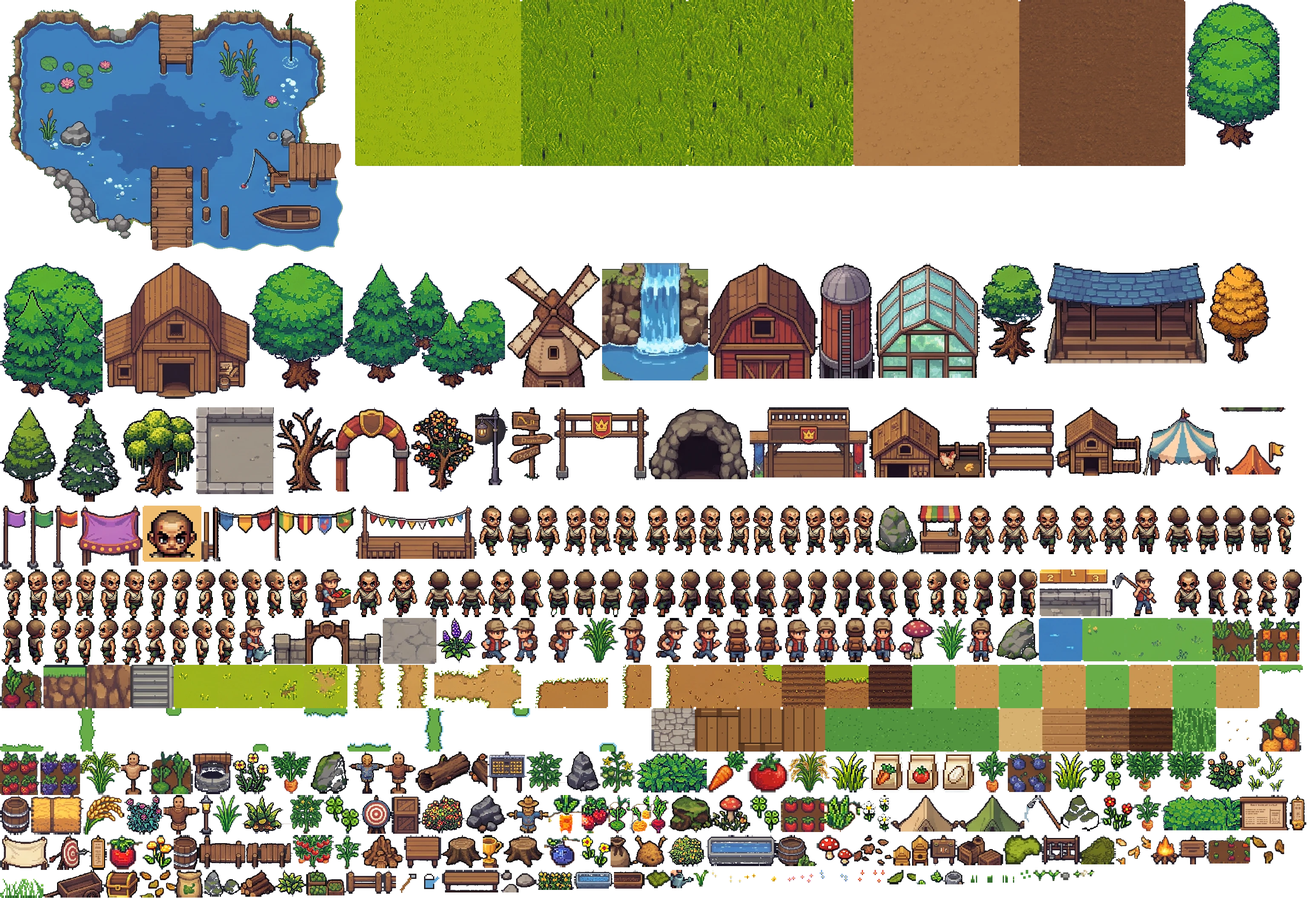
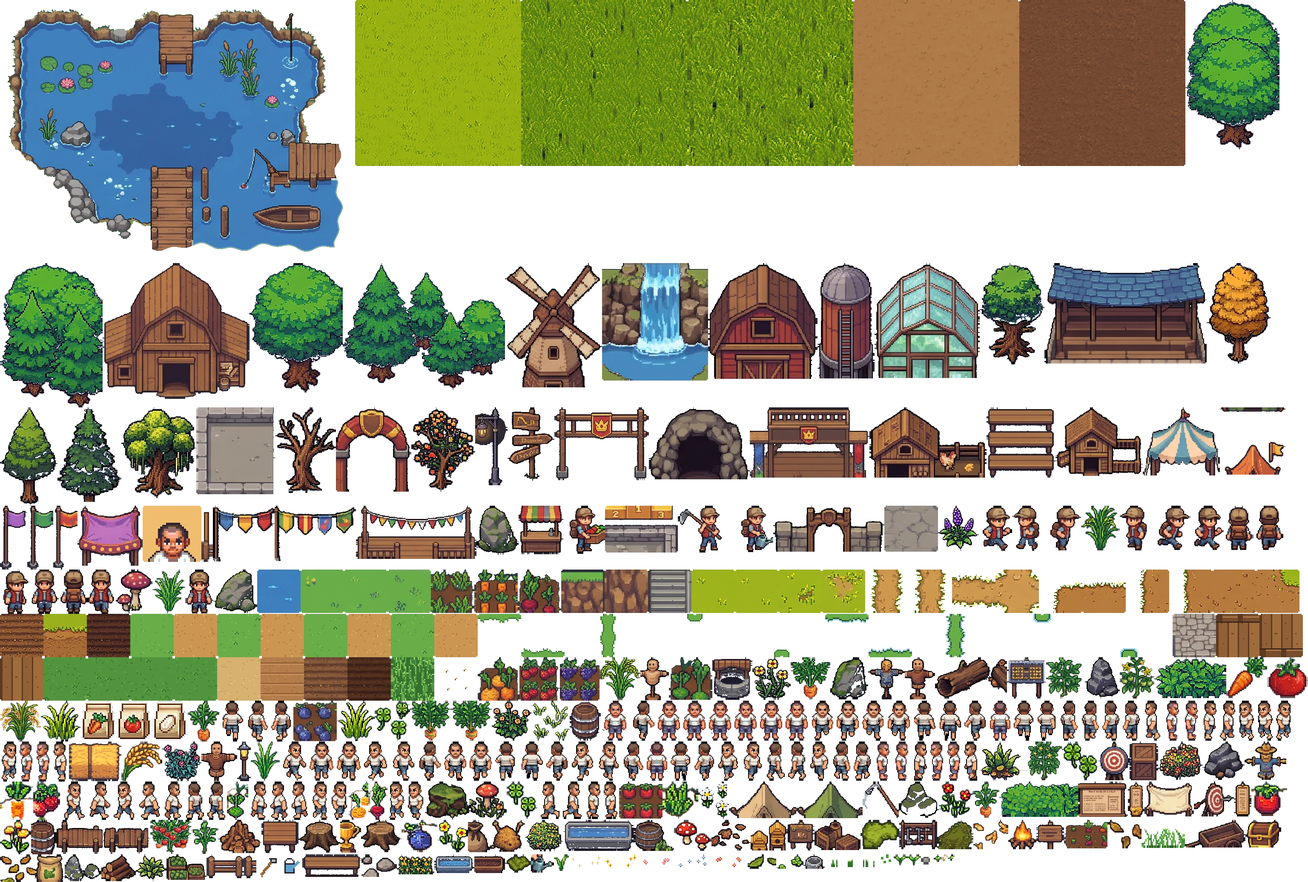
Thay nhân vật chính: bộ GIF đầy đủ (đứng thở + đi bộ 8 hướng)
- assets/source/char2/: idle_<d>.gif (thở: xuống 7 khung, lên 2, trái/phải 4)
  và walk_<d>.gif (8 hướng, 8 khung); hướng nhận tự động theo phía mặt
- Cắt thành pl4_<d>_i<n> / pl4_<d>_w<n>, phóng 2x nearest, mỗi hướng dùng
  chung trục bàn chân nên đứng/đi không bị xê dịch
- Đứng yên chạy nhịp thở theo đúng tốc độ GIF; hướng chéo không có khung
  đứng thì dùng khung đi khép chân nhất
- Bước chân theo quãng đường thật (đi 5,5 px/khung, chạy 8 px)
- Ảnh đại diện lấy mặt nhân vật mới; atlas chỉ chứa bộ nhân vật đang dùng

Claude-Session: https://claude.ai/code/session_01BbaPnx3cHQqz9kHRAFFL9w

diff --git a/client/src/player.ts b/client/src/player.ts
@@ -43,6 +43,9 @@ export class Player {
   turnaround = false;
   /** full 8-direction walk cycles (pl3_<dir>_0 = standing, _1.._8 = walk loop) */
   walkCycles = false;
+  /** char2 set: per direction idle (breathing) + walk frame counts, from the atlas */
+  idleN: number[] | null = null;
+  walkN: number[] = [];
   /** 0 down, 1 down-right, 2 right, 3 up-right, 4 up, 5 up-left, 6 left, 7 down-left */
   dir8 = 0;
 
@@ -50,6 +53,16 @@ export class Player {
 
   /** sprite to draw + whether to mirror it */
   get frame(): F {
+    if (this.idleN) {
+      const d = this.dir8;
+      if (!this.moving || this.vel < 0.05) {
+        const n = this.idleN[d];
+        const per = n <= 2 ? 0.8 : 0.22;            // gif timing (2-frame idle is slow)
+        return [`pl4_${d}_i${Math.floor(this.idleT / per) % n}`, false];
+      }
+      const stride = this.running ? 8 : 5.5;        // px per frame: feet match ground speed
+      return [`pl4_${d}_w${Math.floor(this.dist / stride) % this.walkN[d]}`, false];
+    }
     if (this.walkCycles) {
       if (!this.moving || this.vel < 0.05) return [`pl3_${this.dir8}_0`, false];
       const stride = this.running ? 9 : 6.5;      // px per frame: legs match ground speed
@@ -75,7 +88,14 @@ export class Player {
     if (this.action) {
       // little anticipation squash at the start of a tool swing
       const k = Math.max(0, this.action.t - 0.25) / 0.1;
-      return [0, 1 + 0.06 * k, 1 - 0.06 * k, 0];
+      const b = this.idleN ? 1.15 : 1;
+      return [0, b * (1 + 0.06 * k), b * (1 - 0.06 * k), 0];
+    }
+    if (this.idleN) {
+      // real breathing + walk frames: only scale up to the map, tiny lean
+      const side = this.dir8 >= 1 && this.dir8 <= 3 ? 1 : this.dir8 >= 5 ? -1 : 0;
+      const lean = this.moving ? side * (this.running ? 0.05 : 0.015) * this.vel : 0;
+      return [0, 1.15, 1.15, lean];
     }
     if (!this.moving || this.vel < 0.05) {
       // breathing

diff --git a/client/src/main.ts b/client/src/main.ts
@@ -43,6 +43,11 @@ const player = new Player(map.spawn.x * TILE + TILE / 2, map.spawn.y * TILE + TI
 const fx = new Effects(world);
 player.turnaround = !!atlas.frames['pl2_0'];
 player.walkCycles = !!atlas.frames['pl3_0_8'];
+if (atlas.frames['pl4_0_w0']) {
+  const count = (d: number, k: string) => { let n = 0; while (atlas.frames[`pl4_${d}_${k}${n}`]) n++; return n; };
+  player.idleN = [0, 1, 2, 3, 4, 5, 6, 7].map((d) => count(d, 'i'));
+  player.walkN = [0, 1, 2, 3, 4, 5, 6, 7].map((d) => count(d, 'w'));
+}
 
 document.getElementById('loading')!.remove();
 

diff --git a/tools/build_assets.py b/tools/build_assets.py
@@ -295,6 +295,50 @@ def cut_player_walk():
     return out
 
 
+def cut_char2():
+    """assets/source/char2/: idle_<d>.gif (breathing, 4 directions) and
+    walk_<d>.gif (8 directions). d: 0 down, 1 down-right, 2 right, 3 up-right,
+    4 up, 5 up-left, 6 left, 7 down-left. Frames -> pl4_<d>_i<n> / pl4_<d>_w<n>.
+    Diagonal directions without an idle use their most 'standing' walk frame."""
+    from PIL import ImageSequence
+    base = os.path.join(ROOT, 'assets/source/char2')
+    if not os.path.isdir(base):
+        return {}
+
+    def load(path):
+        fr = []
+        for f in ImageSequence.Iterator(Image.open(path)):
+            f = f.convert('RGBA')
+            fr.append(f.resize((f.width * 2, f.height * 2), Image.NEAREST))
+        return fr
+
+    def feet_x(f):
+        a = f.getchannel('A').load(); w, h = f.size
+        bot = max(y for y in range(h) for x in range(w) if a[x, y])
+        xs = [x for y in range(bot - 8, bot + 1) for x in range(w) if a[x, y]]
+        return (min(xs) + max(xs)) / 2
+
+    def place(f, cx):
+        bb = f.getchannel('A').getbbox()
+        hw = max(cx - bb[0], bb[2] - cx) + 1
+        im = Image.new('RGBA', (hw * 2, bb[3] - bb[1]), (0, 0, 0, 0))
+        im.paste(f.crop(bb), (hw - (cx - bb[0]), 0))
+        return im
+
+    out = {}
+    for d in range(8):
+        walk = load(os.path.join(base, f'walk_{d}.gif'))
+        ip = os.path.join(base, f'idle_{d}.gif')
+        idle = load(ip) if os.path.exists(ip) else [min(walk, key=lambda f: f.getchannel('A').getbbox()[2] - f.getchannel('A').getbbox()[0])]
+        frames = idle + walk
+        cx = round(sum(feet_x(f) for f in frames) / len(frames))
+        for i, f in enumerate(idle):
+            out[f'pl4_{d}_i{i}'] = place(f, cx)
+        for i, f in enumerate(walk):
+            out[f'pl4_{d}_w{i}'] = place(f, cx)
+    return out
+
+
 def cut_player():
     out = {}
     for name, (c, r) in P_FRAMES.items():
@@ -981,8 +1025,22 @@ def main():
         else:
             images[name] = trim(downscale(cut_object(sh, (x0, y0, x1, y1)), mult=mult))
     images.update(cut_player()); native.update(k for k in images if k.startswith('pl_'))
-    images.update(cut_player_gif()); native.update(k for k in images if k.startswith('pl2_'))
-    images.update(cut_player_walk()); native.update(k for k in images if k.startswith('pl3_'))
+    c2 = cut_char2()
+    if c2:
+        # active protagonist: only its frames go into the atlas
+        images.update(c2); native.update(c2)
+        from PIL import ImageSequence
+        f0 = next(ImageSequence.Iterator(Image.open(os.path.join(ROOT, 'assets/source/char2/idle_0.gif')))).convert('RGBA')
+        bb = f0.getchannel('A').getbbox()
+        head = f0.crop((bb[0], bb[1], bb[2], bb[1] + (bb[3] - bb[1]) * 45 // 100))
+        port = Image.new('RGBA', (44 * RES, 42 * RES), (240, 190, 110, 255))
+        k = min((44 * RES - 10) / head.width, (42 * RES - 6) / head.height)
+        hs = head.resize((int(head.width * k), int(head.height * k)), Image.NEAREST)
+        port.alpha_composite(hs, ((port.width - hs.width) // 2, port.height - hs.height))
+        images['portrait'] = port; native.add('portrait')
+    else:
+        images.update(cut_player_gif()); native.update(k for k in images if k.startswith('pl2_'))
+        images.update(cut_player_walk()); native.update(k for k in images if k.startswith('pl3_'))
     for name, box in PLANTS.items():
         im = cut_plant(box)
         k = min(26 * RES / im.width, 28 * RES / im.height)
